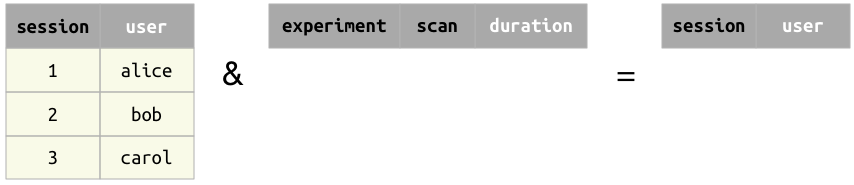
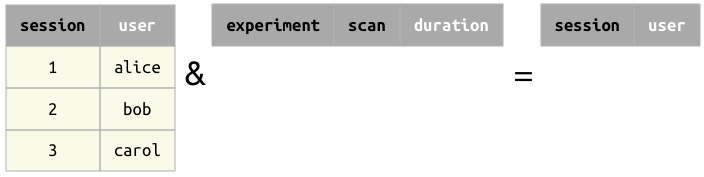
made figures more compact

diff --git a/manuscript/queries.md b/manuscript/queries.md
@@ -17,15 +17,11 @@ In simplest queries, `rel` is a *base relation* representing a table in the data
 
 For example, the following code fetches the entire contents of the table represented by class `experiment.Image`:
 
-Python:
-
 {title="Getting all data from `experiment.Image` in Python", lang=python}
 ~~~~~~~~~
 rel = experiment.Image()
 data = rel.fetch()    
 ~~~~~~~~~
-
-MATLAB:
 
 {title="Getting all data from `experiment.Image` in MATLAB", lang=matlab}
 ~~~~~~~~~
@@ -39,7 +35,7 @@ Queries have the form of expressions using operators to derive the desired relat
 Once a query is formed, the `fetch` methods are used to bring the data into the MATLAB or Python workspace.  Since the expressions are only symbolic representations, repeated `fetch` calls may yield different results as the state of the database is modified.
 
 
-## Deriving relations
+## Relational operators
 
 DataJoint implements a complete algebra of operators on relations:
 
@@ -60,8 +56,6 @@ Starting with base relations, these operators allow constructing *derived relati
 DataJoint's relational algebra improves upon the classical relational algebra and upon other query languages to simplify and enhance the construction and interpretation of precise and efficient data queries.
 
 The clarity of DataJoint's query expressions stems from the concept of *entity integrity*.  Entity integrity states that every relation must have a well-define *primary key*.  Normally, this concept is only applied to *base relation*, which store the data in the database.  DataJoint goes further by extending entity integrity to all relation, including *derived relations*.
-
-I> In DataJoint, all relations possess a primary key.  This applies to results of expressions too.  All relational operators respect and preserve the primary key.
 
 
 1. **Purely relational**: Data are represented and manipulated in the form of *relations*. 

diff --git a/manuscript/union.md b/manuscript/union.md
@@ -19,9 +19,8 @@ Example 1
 
 ![](images/union-example1.png)
 
-Example 2:
-
-Non-key attributes are combined from both relations and filled with NULLs when missing.
+Example 2
+: Non-key attributes are combined from both relations and filled with NULLs when missing.
 
 ![](images/union-example2.png)
 

diff --git a/manuscript/experiment.md b/manuscript/experiment.md
@@ -1,4 +1,4 @@
-# Example: "The Experiment"
+# Example: "Mysterious blobs"
 
 ## Scenario
 The intrepid scientists Alice, Bob, and Carol are embarking on a series of groundbreaking experiments.
